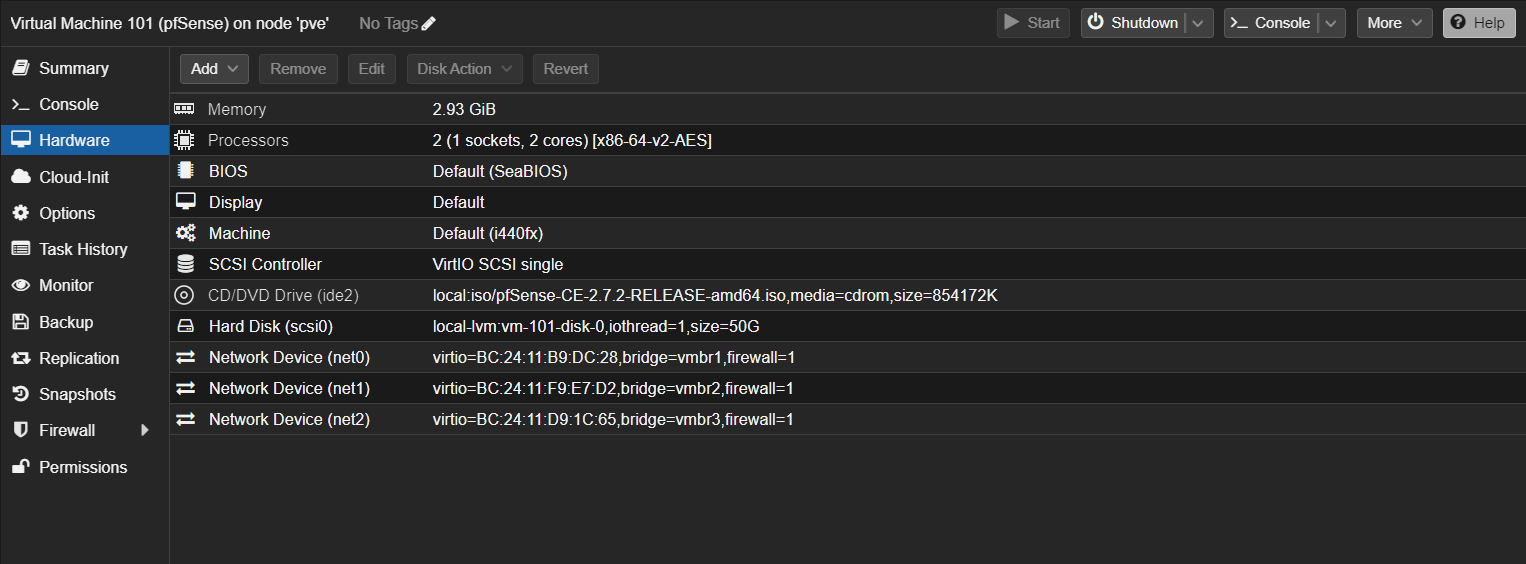
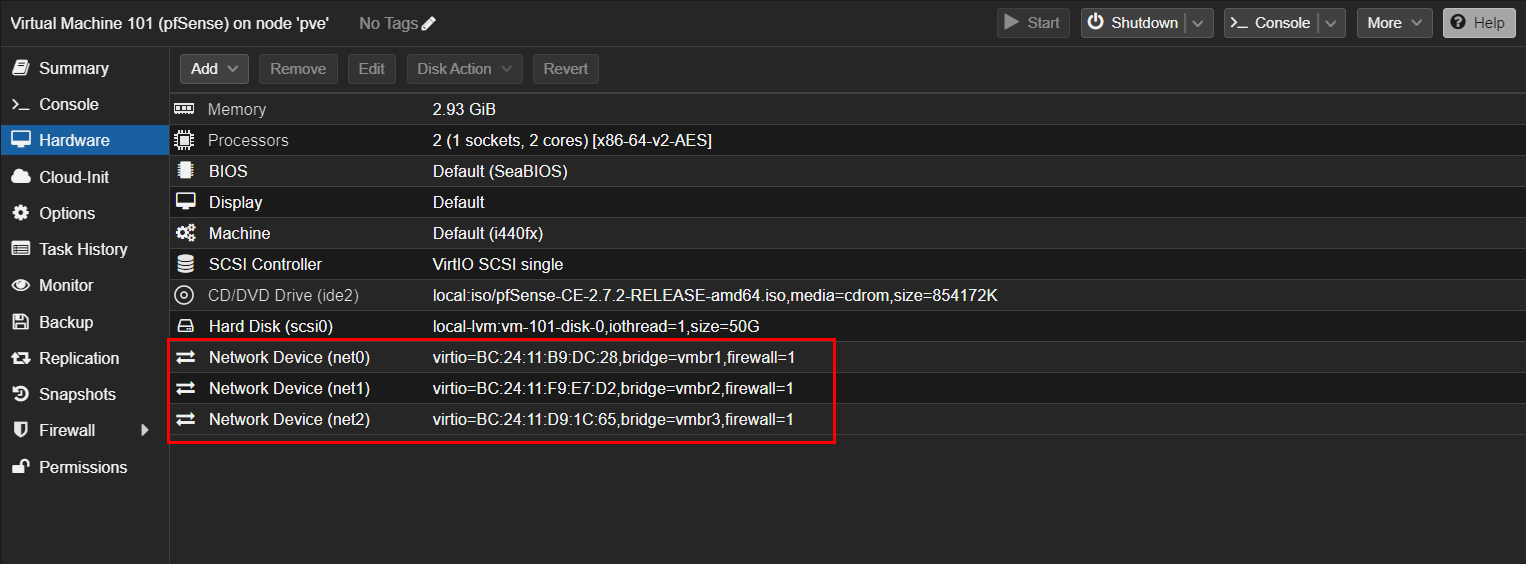
minor additions to notes about virtual network bridges.

diff --git a/GOAD-pfsense-setup.md b/GOAD-pfsense-setup.md
@@ -83,6 +83,8 @@ viii. *Confirm Tab*
 
 <div align="center" ><img src='https://github.com/quincyntuli/pfsense/raw/main/img/pFsense-install-Wizad-Add-Network-Device-initial-01.png'><br><ins>Add Virtual Network Device</ins></div>
 
+
+Add virtual network devices *(bridges)* 3 times until all 3 are added (vmbr1, vmbr2, vmbr3)
 <div align="center" ><img src='https://github.com/quincyntuli/pfsense/raw/main/img/pFsense-install-Wizad-Add-Network-Device-initial-02.png'><br><ins>Add Virtual Network Bridges (vmbr1, vmbr2, vmbr3)</ins></div>
 
 <div align="center" ><img src='https://github.com/quincyntuli/pfsense/raw/main/img/pFsense-install-Wizad-Add-Network-Device-initial-03.png'><br><ins>After Virtual Network Bridges are added</ins></div>
